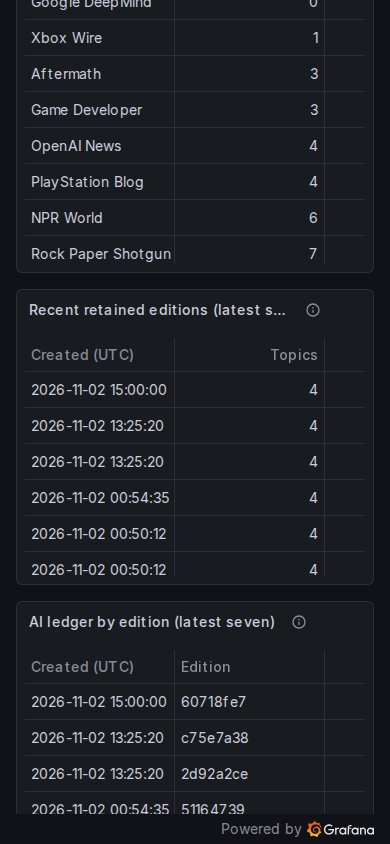
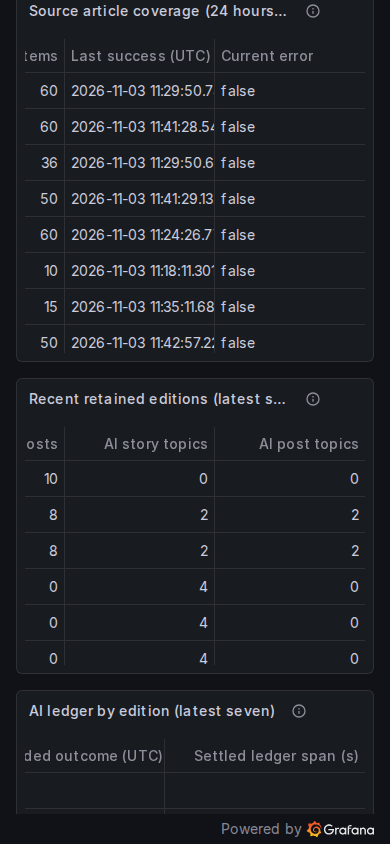
Show per-edition AI ledger timing bounds in Grafana

diff --git a/scripts/lib/check-grafana.ts b/scripts/lib/check-grafana.ts
@@ -326,6 +326,9 @@ export async function checkGrafana() {
           'Articles (7d)',
           'AI story topics',
           'Charged ($)',
+          'First admission (UTC)',
+          'Last recorded outcome (UTC)',
+          'Settled ledger span (s)',
           'Candidates',
           'Scored',
           'Unscored',
@@ -490,6 +493,22 @@ export async function checkGrafana() {
       .scrollIntoViewIfNeeded();
     // Mobile table columns are horizontally virtualized by Grafana.
     await page.waitForTimeout(1500);
+    await page.evaluate(() => {
+      for (const element of document.querySelectorAll<HTMLElement>('div')) {
+        if (
+          element.scrollWidth > element.clientWidth &&
+          element.clientWidth > 200
+        )
+          element.scrollLeft = element.scrollWidth;
+      }
+    });
+    await page
+      .getByRole('columnheader', {
+        name: 'Settled ledger span (s)',
+        exact: true,
+      })
+      .scrollIntoViewIfNeeded();
+    await page.waitForTimeout(300);
     await page.screenshot({
       path: 'docs/screenshots/grafana-product-cost-mobile.png',
     });

diff --git a/PROGRESS.md b/PROGRESS.md
@@ -1,18 +1,8 @@
 # Progress
 
-Archived: [iteration 378](docs/progress-archive/2026-11-03-iteration-378.md), [iteration 377](docs/progress-archive/2026-11-03-iteration-377.md), [iteration 376](docs/progress-archive/2026-11-03-iteration-376.md), [iteration 375](docs/progress-archive/2026-11-03-iteration-375.md), [iteration 374](docs/progress-archive/2026-11-03-iteration-374.md), [iteration 373](docs/progress-archive/2026-11-03-iteration-373.md), [iteration 372](docs/progress-archive/2026-11-03-iteration-372.md), [iteration 371](docs/progress-archive/2026-11-03-iteration-371.md), [iteration 370](docs/progress-archive/2026-11-03-iteration-370.md), [iteration 369](docs/progress-archive/2026-11-03-iteration-369.md), [iteration 367](docs/progress-archive/2026-11-03-iteration-367.md), [iteration 366](docs/progress-archive/2026-11-03-iteration-366.md), [iteration 365](docs/progress-archive/2026-11-03-iteration-365.md), [iteration 364](docs/progress-archive/2026-11-03-iteration-364.md), [iteration 363](docs/progress-archive/2026-11-03-iteration-363.md), [iteration 362](docs/progress-archive/2026-11-03-iteration-362.md), [iteration 361](docs/progress-archive/2026-11-03-iteration-361.md), [iteration 360](docs/progress-archive/2026-11-03-iteration-360.md), [iteration 359](docs/progress-archive/2026-11-03-iteration-359.md), [iteration 357](docs/progress-archive/2026-11-03-iteration-357.md), [iteration 356](docs/progress-archive/2026-11-03-iteration-356.md), [iteration 355](docs/progress-archive/2026-11-03-iteration-355.md), [iteration 354](docs/progress-archive/2026-11-03-iteration-354.md), [iteration 353](docs/progress-archive/2026-11-03-iteration-353.md), [iteration 352](docs/progress-archive/2026-11-03-iteration-352.md), [iteration 351](docs/progress-archive/2026-11-03-iteration-351.md), [iteration 350](docs/progress-archive/2026-11-03-iteration-350.md), [iteration 349](docs/progress-archive/2026-11-03-iteration-349.md), [iteration 348](docs/progress-archive/2026-11-03-iteration-348.md), [iteration 347](docs/progress-archive/2026-11-03-iteration-347.md), [iteration 346](docs/progress-archive/2026-11-03-iteration-346.md), [iteration 345](docs/progress-archive/2026-11-03-iteration-345.md), [iteration 344](docs/progress-archive/2026-11-03-iteration-344.md), [iteration 343](docs/progress-archive/2026-11-03-iteration-343.md), [iteration 342](docs/progress-archive/2026-11-03-iteration-342.md), [iteration 341](docs/progress-archive/2026-11-03-iteration-341.md), [iteration 340](docs/progress-archive/2026-11-03-iteration-340.md), [iteration 338](docs/progress-archive/2026-11-03-iteration-338.md), [iteration 337](docs/progress-archive/2026-11-03-iteration-337.md), [iteration 336](docs/progress-archive/2026-11-03-iteration-336.md), [iteration 335](docs/progress-archive/2026-11-03-iteration-335.md), [iteration 334](docs/progress-archive/2026-11-03-iteration-334.md), [iteration 332](docs/progress-archive/2026-11-03-iteration-332.md), [iteration 331](docs/progress-archive/2026-11-03-iteration-331.md), [iteration 330](docs/progress-archive/2026-11-03-iteration-330.md), [iteration 329](docs/progress-archive/2026-11-03-iteration-329.md), [iteration 328](docs/progress-archive/2026-11-03-iteration-328.md), [iteration 327](docs/progress-archive/2026-11-03-iteration-327.md), [iteration 326](docs/progress-archive/2026-11-03-iteration-326.md), [iteration 325](docs/progress-archive/2026-11-03-iteration-325.md), [iteration 324](docs/progress-archive/2026-11-03-iteration-324.md), [iteration 321](docs/progress-archive/2026-11-03-iteration-321.md), [iteration 320](docs/progress-archive/2026-11-03-iteration-320.md), [iteration 319](docs/progress-archive/2026-11-03-iteration-319.md), [iterations 317–318](docs/progress-archive/2026-11-03-iterations-317-318.md), [iterations 315–316](docs/progress-archive/2026-11-03-iterations-315-316.md), [iterations 313–314](docs/progress-archive/2026-11-03-iterations-313-314.md), [iterations 311–312](docs/progress-archive/2026-11-03-iterations-311-312.md), [iterations 309–310](docs/progress-archive/2026-11-03-iterations-309-310.md), [iterations 307–308](docs/progress-archive/2026-11-03-iterations-307-308.md), [iterations 305–306](docs/progress-archive/2026-11-03-iterations-305-306.md), [iterations 303–304](docs/progress-archive/2026-11-03-iterations-303-304.md), [iteration 302](docs/progress-archive/2026-11-03-iteration-302.md), [iteration 301](docs/progress-archive/2026-11-03-iteration-301.md), [iteration 300](docs/progress-archive/2026-11-03-iteration-300.md), [iteration 299](docs/progress-archive/2026-11-03-iteration-299.md), [iteration 298](docs/progress-archive/2026-11-03-iteration-298.md), [iteration 297](docs/progress-archive/2026-11-03-iteration-297.md), [iteration 296](docs/progress-archive/2026-11-03-iteration-296.md), [iteration 295](docs/progress-archive/2026-11-03-iteration-295.md), [iteration 294](docs/progress-archive/2026-11-03-iteration-294.md), [iteration 293](docs/progress-archive/2026-11-03-iteration-293.md), [iteration 292](docs/progress-archive/2026-11-03-iteration-292.md), [iteration 291](docs/progress-archive/2026-11-03-iteration-291.md), [iteration 290](docs/progress-archive/2026-11-03-iteration-290.md), [iteration 288](docs/progress-archive/2026-11-03-iteration-288.md), [iteration 285](docs/progress-archive/2026-11-03-iteration-285.md), [286](docs/progress-archive/2026-11-03-iteration-286.md).
+Archived: [iteration 379](docs/progress-archive/2026-11-03-iteration-379.md), [iteration 378](docs/progress-archive/2026-11-03-iteration-378.md), [iteration 377](docs/progress-archive/2026-11-03-iteration-377.md), [iteration 376](docs/progress-archive/2026-11-03-iteration-376.md), [iteration 375](docs/progress-archive/2026-11-03-iteration-375.md), [iteration 374](docs/progress-archive/2026-11-03-iteration-374.md), [iteration 373](docs/progress-archive/2026-11-03-iteration-373.md), [iteration 372](docs/progress-archive/2026-11-03-iteration-372.md), [iteration 371](docs/progress-archive/2026-11-03-iteration-371.md), [iteration 370](docs/progress-archive/2026-11-03-iteration-370.md), [iteration 369](docs/progress-archive/2026-11-03-iteration-369.md), [iteration 367](docs/progress-archive/2026-11-03-iteration-367.md), [iteration 366](docs/progress-archive/2026-11-03-iteration-366.md), [iteration 365](docs/progress-archive/2026-11-03-iteration-365.md), [iteration 364](docs/progress-archive/2026-11-03-iteration-364.md), [iteration 363](docs/progress-archive/2026-11-03-iteration-363.md), [iteration 362](docs/progress-archive/2026-11-03-iteration-362.md), [iteration 361](docs/progress-archive/2026-11-03-iteration-361.md), [iteration 360](docs/progress-archive/2026-11-03-iteration-360.md), [iteration 359](docs/progress-archive/2026-11-03-iteration-359.md), [iteration 357](docs/progress-archive/2026-11-03-iteration-357.md), [iteration 356](docs/progress-archive/2026-11-03-iteration-356.md), [iteration 355](docs/progress-archive/2026-11-03-iteration-355.md), [iteration 354](docs/progress-archive/2026-11-03-iteration-354.md), [iteration 353](docs/progress-archive/2026-11-03-iteration-353.md), [iteration 352](docs/progress-archive/2026-11-03-iteration-352.md), [iteration 351](docs/progress-archive/2026-11-03-iteration-351.md), [iteration 350](docs/progress-archive/2026-11-03-iteration-350.md), [iteration 349](docs/progress-archive/2026-11-03-iteration-349.md), [iteration 348](docs/progress-archive/2026-11-03-iteration-348.md), [iteration 347](docs/progress-archive/2026-11-03-iteration-347.md), [iteration 346](docs/progress-archive/2026-11-03-iteration-346.md), [iteration 345](docs/progress-archive/2026-11-03-iteration-345.md), [iteration 344](docs/progress-archive/2026-11-03-iteration-344.md), [iteration 343](docs/progress-archive/2026-11-03-iteration-343.md), [iteration 342](docs/progress-archive/2026-11-03-iteration-342.md), [iteration 341](docs/progress-archive/2026-11-03-iteration-341.md), [iteration 340](docs/progress-archive/2026-11-03-iteration-340.md), [iteration 338](docs/progress-archive/2026-11-03-iteration-338.md), [iteration 337](docs/progress-archive/2026-11-03-iteration-337.md), [iteration 336](docs/progress-archive/2026-11-03-iteration-336.md), [iteration 335](docs/progress-archive/2026-11-03-iteration-335.md), [iteration 334](docs/progress-archive/2026-11-03-iteration-334.md), [iteration 332](docs/progress-archive/2026-11-03-iteration-332.md), [iteration 331](docs/progress-archive/2026-11-03-iteration-331.md), [iteration 330](docs/progress-archive/2026-11-03-iteration-330.md), [iteration 329](docs/progress-archive/2026-11-03-iteration-329.md), [iteration 328](docs/progress-archive/2026-11-03-iteration-328.md), [iteration 327](docs/progress-archive/2026-11-03-iteration-327.md), [iteration 326](docs/progress-archive/2026-11-03-iteration-326.md), [iteration 325](docs/progress-archive/2026-11-03-iteration-325.md), [iteration 324](docs/progress-archive/2026-11-03-iteration-324.md), [iteration 321](docs/progress-archive/2026-11-03-iteration-321.md), [iteration 320](docs/progress-archive/2026-11-03-iteration-320.md), [iteration 319](docs/progress-archive/2026-11-03-iteration-319.md), [iterations 317–318](docs/progress-archive/2026-11-03-iterations-317-318.md), [iterations 315–316](docs/progress-archive/2026-11-03-iterations-315-316.md), [iterations 313–314](docs/progress-archive/2026-11-03-iterations-313-314.md), [iterations 311–312](docs/progress-archive/2026-11-03-iterations-311-312.md), [iterations 309–310](docs/progress-archive/2026-11-03-iterations-309-310.md), [iterations 307–308](docs/progress-archive/2026-11-03-iterations-307-308.md), [iterations 305–306](docs/progress-archive/2026-11-03-iterations-305-306.md), [iterations 303–304](docs/progress-archive/2026-11-03-iterations-303-304.md), [iteration 302](docs/progress-archive/2026-11-03-iteration-302.md), [iteration 301](docs/progress-archive/2026-11-03-iteration-301.md), [iteration 300](docs/progress-archive/2026-11-03-iteration-300.md), [iteration 299](docs/progress-archive/2026-11-03-iteration-299.md), [iteration 298](docs/progress-archive/2026-11-03-iteration-298.md), [iteration 297](docs/progress-archive/2026-11-03-iteration-297.md), [iteration 296](docs/progress-archive/2026-11-03-iteration-296.md), [iteration 295](docs/progress-archive/2026-11-03-iteration-295.md), [iteration 294](docs/progress-archive/2026-11-03-iteration-294.md), [iteration 293](docs/progress-archive/2026-11-03-iteration-293.md), [iteration 292](docs/progress-archive/2026-11-03-iteration-292.md), [iteration 291](docs/progress-archive/2026-11-03-iteration-291.md), [iteration 290](docs/progress-archive/2026-11-03-iteration-290.md), [iteration 288](docs/progress-archive/2026-11-03-iteration-288.md), [iteration 285](docs/progress-archive/2026-11-03-iteration-285.md), [286](docs/progress-archive/2026-11-03-iteration-286.md).
 
 Earlier entries: [iterations 269–270](docs/progress-archive/2026-11-03-iterations-269-270.md), [271–272](docs/progress-archive/2026-11-03-iterations-271-272.md), [273–274](docs/progress-archive/2026-11-03-iterations-273-274.md), [275–276](docs/progress-archive/2026-11-03-iterations-275-276.md), [277–278](docs/progress-archive/2026-11-03-iterations-277-278.md), [279–280](docs/progress-archive/2026-11-03-iterations-279-280.md), [282](docs/progress-archive/2026-11-03-iteration-282.md), [283](docs/progress-archive/2026-11-03-iteration-283.md), [284](docs/progress-archive/2026-11-03-iteration-284.md).
-
-## 2026-11-03: iteration 379 — unresolved provider holds
-
-- Started clean on main; no leftover work. App services/health green, all 32 sources returning items without current errors, no failed digest runs; two historical ingestion failures remain recovered. Nov 3 15:00 UTC evidence/acks pending.
-- Product provider spend now shows all-day pending/uncertain call counts and oldest unresolved hold age from call creation; both providers remain visible with zero totals for empty ledgers. No unresolved calls means blank age. Existing reader grants only; no budget/admission changes.
-- Read-only restricted-role SQL verified live zero unresolved holds, synthetic mixed pending/uncertain/completed calls and fully empty ledgers. Initial verifier compared numeric strings too strictly; corrected it to compare numeric values and reran successfully. No production data writes.
-- Verification: `pnpm format`, `pnpm lint:fix`, `pnpm check` (232 unit/172 integration, exit 0), `pnpm build`, handbook 09 and `git diff --check` passed. `check-observability.ts --verify-grafana --verify-o4`: 62 valid queries/57 populated; seven healthy scrape targets.
-- Inspected desktop/mobile captures, widened columns after mobile review, then repeated targeted Playwright column/error checks and saved final hold screenshots. Discarded unrelated regenerated screenshots. Updated handbook/plan/TASKS.
-- Dashboard hot-reloaded; no app/DB/Redis code/config restart needed. Read-only edition timing report confirms next run at 15:00 UTC and retained 856 ms fallback run; no paid calls or content/spending-setting changes.
-- Next: scheduled evidence/acks first; otherwise remaining O6 Agent/Product caps or O7 Postgres collection. Activation stays gated.
 
 ## 2026-11-03: iteration 380 — daily provider call outcomes
 
@@ -131,3 +121,14 @@ Earlier entries: [iterations 269–270](docs/progress-archive/2026-11-03-iterati
 - `pnpm format`, `pnpm lint:fix`, `pnpm check` (238 unit/172 integration), `pnpm build`, handbook 09 and `git diff --check` passed. Fixed archived-entry formatting before successful full rerun; first Grafana probe preceded provisioning reload, rerun passed.
 - Updated handbook/plan/TASKS; archived iteration 378. Grafana hot-reloaded; no app/service code or runtime config changes requiring restart. No paid calls, Reddit requests or content/cap/schedule/activation changes.
 - Next: collect and ack Nov 3 scheduled cost/yield/AI timing; activation stays gated. Per-iteration harness metrics and individual edition timing remain open.
+
+## 2026-11-03: iteration 392 — per-edition ledger timing bounds
+
+- Started clean on main; no leftover work. Health/services green and 32 sources without current errors. Scheduled evidence/acks remain due 15:00 UTC.
+- Product AI ledger table adds first admission, last recorded outcome and settled span per edition. Empty ledgers, missing outcomes and pending/uncertain calls leave span blank; includes gaps/overlap, excludes cached/unpublished work. Not worker duration or summed HTTP latency.
+- Read-only SQL fixture passed five cases: overlapping settled/failed calls span 15 seconds; empty, pending, uncertain and missing outcomes stay unknown. Existing restricted reader grants suffice.
+- Updated handbook/observability plan/TASKS; archived iteration 379. No paid calls, Reddit requests or production content/cap/schedule/activation changes.
+- `pnpm format`, `pnpm lint:fix`, `pnpm check` (238 unit/172 integration), `pnpm build`, handbook 09 and read-only timing report passed. First check overlapped final formatting and failed formatting; corrected and full rerun passed.
+- Live Grafana queries/Viewer permissions passed; desktop/mobile timing columns inspected and widths adjusted after mobile clipping. Stack snapshot: ~450 MiB RAM, 1.42% one CPU average since service starts, 172 MiB allocated log/metric disk.
+- Grafana hot-reloads the dashboard; no application/service code or runtime configuration requiring restart. Retained scheduled result is 856 ms fallback; no fresh AI timing claim.
+- Next: collect/ack Nov 3 scheduled cost/yield/AI timing; production activation stays gated. Individual worker duration and per-iteration harness metrics remain open.

diff --git a/docs/handbook/01-app/09-observability.md b/docs/handbook/01-app/09-observability.md
@@ -256,7 +256,7 @@ latest seven retained edition snapshots with story/post totals and AI topic coun
 Provider rows remain visible when a ledger is empty. Succeeded and failed call counts use the UTC creation day and current ledger status. Failed counts cover released ledger failures; uncertain transport outcomes stay separate. Cache hits and budget refusals create no call row. Pending and uncertain call counts cover all days; oldest hold age starts at call creation, not the last retry, and stays blank when no unresolved calls exist.
 The X call history shows the latest 30 calls created in seven days, with the reservation-time topic, search type, current status, settled cost, unresolved hold and provider-reported fetched post/profile counts. Outcome time, safe failure reason and reservation-to-outcome seconds help diagnose failures. Pending calls have no outcome time or elapsed value; an uncertain outcome still holds its reservation. Elapsed includes local work and excludes subsequent official verification; it is not provider HTTP latency. Missing counts stay blank. It includes scheduled and manual calls; fetched posts can include repeats and parent/thread posts, so these counts do not measure verified additions or selection quality.
 A separate table matches Anthropic ledger calls to those edition IDs, showing charges
-and unresolved holds. Zero calls may mean cached or fallback work. It excludes X
+and unresolved holds. First admission and last recorded outcome show the bounds of those calls. Settled ledger span runs from the earliest admission to the latest outcome, including gaps and overlapping calls. It stays blank with no calls, missing outcomes or unresolved holds. This is not summed provider latency, worker duration or queue time; cache hits add no calls. Zero calls may mean cached or fallback work. It excludes X
 discovery and unpublished attempts, so it is not total scheduled-run spend.
 Seven-day article counts include the last 24 hours and use publication time, not discovery time.
 Source response counts include duplicates and older items; they are not new-item yield.

diff --git a/TASKS.md b/TASKS.md
@@ -70,4 +70,4 @@ M0–M2; M3/M6/M7 foundations implemented.
 - [ ] STEERING 2a (lower priority): finish repository/HTTP characterization before ORM. Isolated DB/Redis, migrations, HTTP/worker and synthetic-AI goldens implemented (183–270); gaps: [database verification](docs/DATABASE-VERIFICATION.md). No live DB; finish 2a before ORM. Recorded-response golden open.
 - [ ] STEERING 2b (only after 2a is green): record Drizzle decision/schema parity, back up live DB, gradually replace raw SQL behind ports and enforce boundaries.
 
-- [ ] STEERING 24 (background): [observability plan](docs/observability-plan.md), only while product work is blocked. O1–O5 verified; O6 has Host/Services/HTTP/Jobs/Errors/Product/Database/Redis/App runtime dashboards, including provider admissions/outcomes and configured ceilings. Iterations 389–390 add recent per-topic social-platform counts and story/post selection history with story candidate counts and explicit zero/unknown handling. Iteration 391 adds supervisor resource/state visibility; per-iteration Agent metrics, individual edition timing and O7 top queries remain. Scheduled evidence/acks first; preserve caps and run protection.
+- [ ] STEERING 24 (background): [observability plan](docs/observability-plan.md), only while product work is blocked. O1–O5 verified; O6 has Host/Services/HTTP/Jobs/Errors/Product/Database/Redis/App runtime dashboards, including provider admissions/outcomes and configured ceilings. Iterations 389–390 add recent per-topic social-platform counts and story/post selection history with story candidate counts and explicit zero/unknown handling. Iterations 391–392 add supervisor resource/state visibility and per-edition settled ledger timing bounds; per-iteration Agent metrics, individual edition timing and O7 top queries remain. Scheduled evidence/acks first; preserve caps and run protection.

diff --git a/docs/progress-archive/2026-11-03-iteration-379.md b/docs/progress-archive/2026-11-03-iteration-379.md
@@ -1,0 +1,11 @@
+# Progress archive
+
+## 2026-11-03: iteration 379 — unresolved provider holds
+
+- Started clean on main; no leftover work. App services/health green, all 32 sources returning items without current errors, no failed digest runs; two historical ingestion failures remain recovered. Nov 3 15:00 UTC evidence/acks pending.
+- Product provider spend now shows all-day pending/uncertain call counts and oldest unresolved hold age from call creation; both providers remain visible with zero totals for empty ledgers. No unresolved calls means blank age. Existing reader grants only; no budget/admission changes.
+- Read-only restricted-role SQL verified live zero unresolved holds, synthetic mixed pending/uncertain/completed calls and fully empty ledgers. Initial verifier compared numeric strings too strictly; corrected it to compare numeric values and reran successfully. No production data writes.
+- Verification: `pnpm format`, `pnpm lint:fix`, `pnpm check` (232 unit/172 integration, exit 0), `pnpm build`, handbook 09 and `git diff --check` passed. `check-observability.ts --verify-grafana --verify-o4`: 62 valid queries/57 populated; seven healthy scrape targets.
+- Inspected desktop/mobile captures, widened columns after mobile review, then repeated targeted Playwright column/error checks and saved final hold screenshots. Discarded unrelated regenerated screenshots. Updated handbook/plan/TASKS.
+- Dashboard hot-reloaded; no app/DB/Redis code/config restart needed. Read-only edition timing report confirms next run at 15:00 UTC and retained 856 ms fallback run; no paid calls or content/spending-setting changes.
+- Next: scheduled evidence/acks first; otherwise remaining O6 Agent/Product caps or O7 Postgres collection. Activation stays gated.

diff --git a/docs/observability-plan.md b/docs/observability-plan.md
@@ -341,3 +341,5 @@ O6 incremental progress (389): Product shows per-topic X/Bluesky/Reddit/other se
 O6 incremental progress (390): Product selection coverage spans the latest seven immutable editions with edition identity/time and stored story candidate counts. Post candidates remain unknown; empty selections are zero and absent editorial metadata stays blank. Manual editions and revisions are included; cached triage is not fresh provider work. Existing reader grants only.
 
 O6 incremental progress (391): Agent supervisor dashboard uses existing unit samples for active state, cgroup memory/CPU/tasks, automatic restarts and shared snapshot age. Cgroup includes children; active is not iteration progress. No harness files or transcripts are read and no iteration/token/quota/commit counters are claimed. Live queries and desktop/mobile checks verify labels, samples and freshness.
+
+O6 incremental progress (392): Per-edition Anthropic ledger shows earliest admission, latest recorded outcome and settled span. No calls, missing outcomes or pending/uncertain holds leave the span blank. Includes gaps/overlapping calls; excludes cache hits and unpublished attempts, and is not worker duration or summed HTTP latency. Existing restricted grants only.
